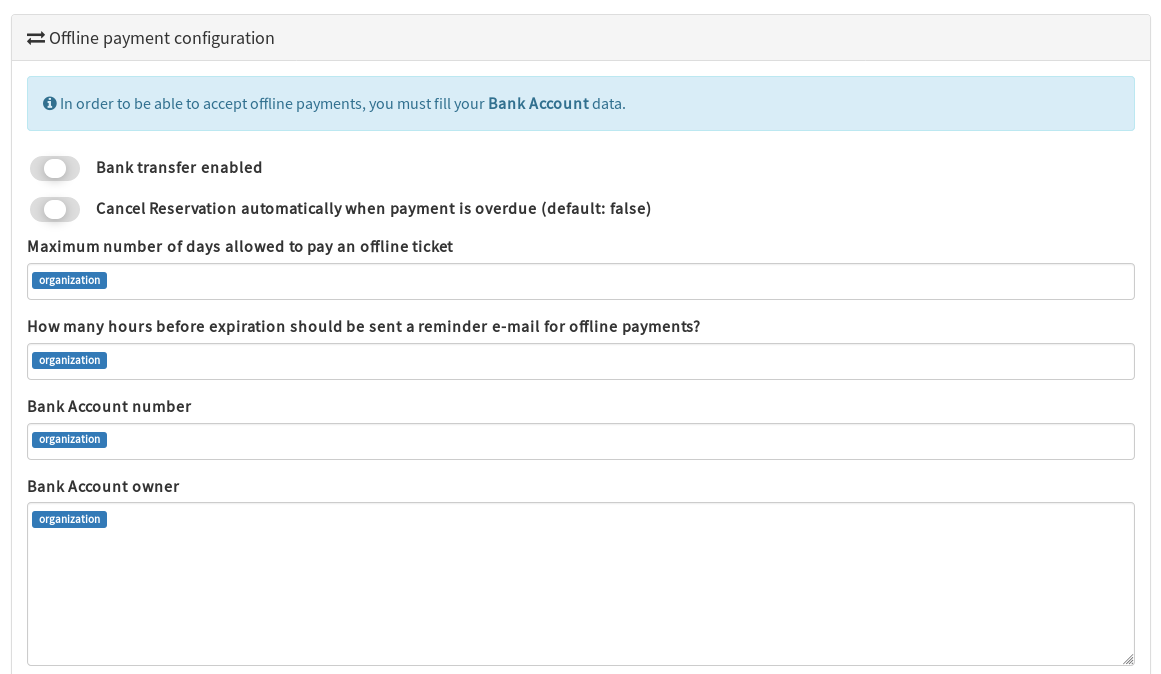
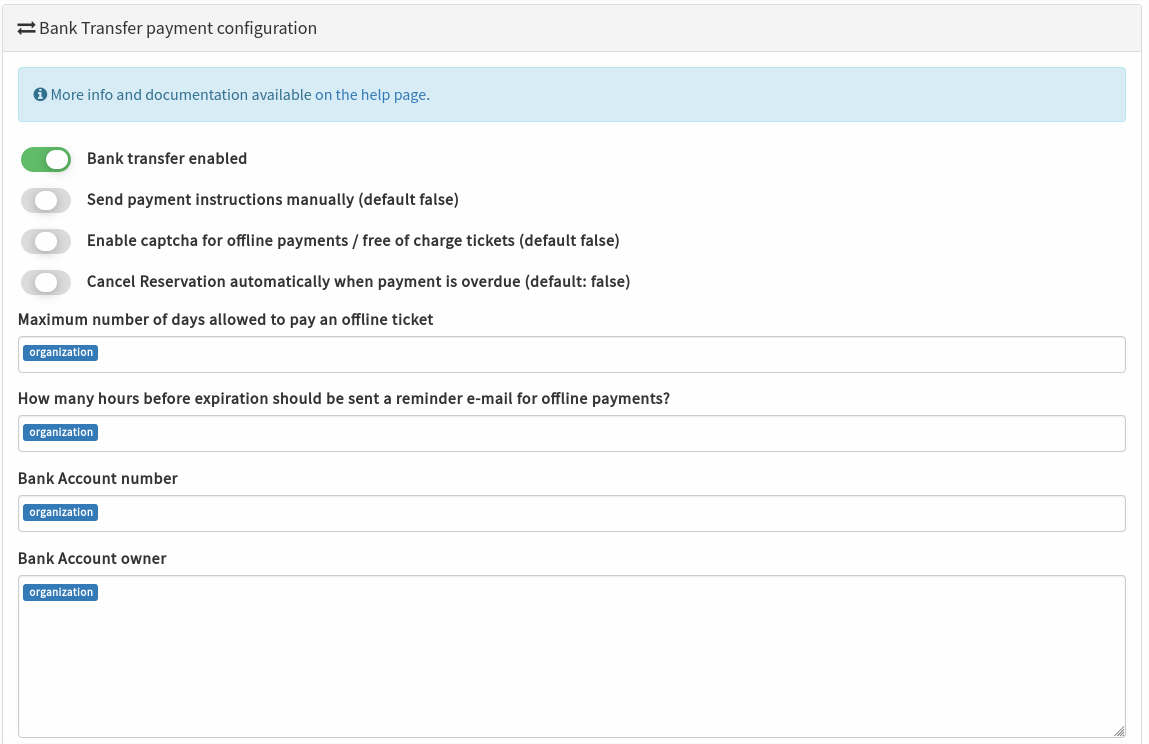
#866 add documentation

Changed region(s): [[0.0, 0.0312, 1.0, 0.997], [0.9443, 0.7478, 1.0, 0.997]]

diff --git a/website/layouts/docs/baseof.html b/website/layouts/docs/baseof.html
@@ -1,0 +1,30 @@
+<!doctype html>
+<html lang="{{ .Site.Language.Lang }}" class="no-js">
+  <head>
+    {{ partial "head.html" . }}
+    <title>{{ if .IsHome }}{{ .Site.Title }}{{ else }}{{ with .Title }}{{ . }} | {{ end }}{{ .Site.Title }}{{ end }}</title>
+  </head>
+  <body class="td-{{ .Kind }}">
+    <header>
+      {{ partial "navbar.html" . }}
+    </header>
+    <div class="container-fluid td-outer">
+      <div class="td-main">
+        <div class="row flex-xl-nowrap">
+          <div class="col-12 col-md-3 col-xl-2 td-sidebar d-print-none">
+            {{ partial "sidebar.html" . }}
+          </div>
+          <div class="d-none d-xl-block col-xl-2 td-toc d-print-none">
+            {{ partial "toc.html" . }}
+          </div>
+          <main class="col-12 col-md-9 col-xl-8 pl-md-5 alfio-docs" role="main">
+            {{ if not .Site.Params.ui.breadcrumb_disable }}{{ partial "breadcrumb.html" . }}{{ end }}
+            {{ block "main" . }}{{ end }}
+          </main>
+        </div>
+      </div>
+      {{ partial "footer.html" . }}
+    </div>
+    {{ partial "scripts.html" . }}
+  </body>
+</html>

diff --git a/website/assets/scss/_variables_project.scss b/website/assets/scss/_variables_project.scss
@@ -20,3 +20,8 @@ $danger:        #dc3545;
 $light:         #f8f9fa;
 $dark:          #343a40;
 $primary-light: lighten($primary, 75%);
+
+.alfio-docs img {
+    margin: 30px;
+    box-shadow: 0 0.3rem 0.5rem rgba(0, 0, 0, 0.15) !important;
+}

diff --git a/website/content/en/docs/Configuration/Payment/Bank Transfer/_index.md b/website/content/en/docs/Configuration/Payment/Bank Transfer/_index.md
@@ -15,12 +15,18 @@ If you want to accept payments via Bank Transfer, head to the Payment section of
 
 Enable the Bank Transfer payment method at organization level
 
+### Send payment instructions manually
+
+- **default: disabled**
+
+If Alf.io's offline payment handling is not enough for your use case, for instance because you need to send a paper version of the invoice, you can enable this flag, and send the payment instructions manually. More info [here](external-payment/)
+
 ### Cancel Reservation automatically when payment is overdue
 
-- **default: true** 2.0-M1
-- **default: false** 2.0-M2+
+- **default: disabled**
 
-Controls whether or not to delete automatically reservations whose payment is expired
+Controls whether or not to delete automatically reservations whose payment is expired. 
+The default is to keep reservations until the organizer deletes them explicitly
 
 ### Maximum number of days allowed to pay an offline ticket
 
@@ -43,7 +49,7 @@ This parameter tells alf.io when it should send a reminder/warning email to the 
 Details about the organizer's Bank Account. E.g. Address of the bank and SWIFT code for international payments
 
 
-## How it works
+## How the process works
 
 ### Reservation Process
 

diff --git a/website/content/en/docs/Configuration/Payment/Bank Transfer/external-payment.md b/website/content/en/docs/Configuration/Payment/Bank Transfer/external-payment.md
@@ -1,0 +1,21 @@
+---
+title: "Send payment instructions manually"
+linkTitle: "Send payment instructions manually"
+date: 2017-01-05
+weight: 1
+description: >
+  How to send payment instructions manually, in case your processes do not match Alf.io's flow
+---
+
+If Alf.io's offline payment handling is not enough for your use case, for instance because you need to send a paper version of the invoice, you can enable this flag, and send the payment instructions manually. Here's how to do it.
+
+
+## Select "Send payment instructions manually"
+
+![Offline Payment Configuration](/img/configuration/payment/offline-deferred/001.png)
+
+this option instructs Alf.io to not show payment instructions when the attendee register. Instead, the following page will be shown
+
+![Reservation Confirmation](/img/configuration/payment/offline-deferred/002.png)
+
+The organizer can then confirm / delete the payment from the relevant section of the backoffice. See [guide](../)
